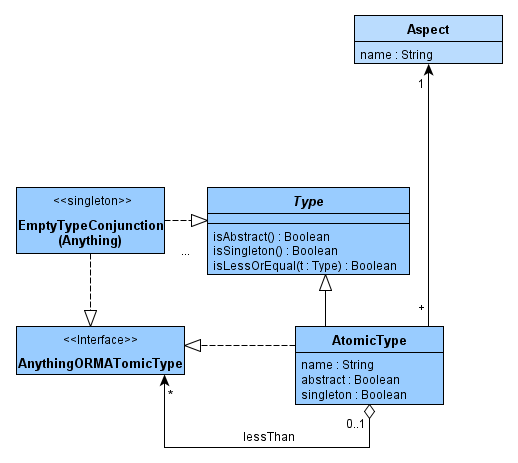
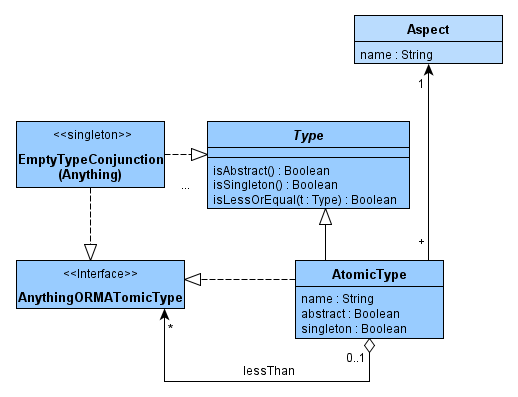
doku update observations
git-svn-id: file:///home/nik/repositories/svn/master@577 cf7a9c80-4257-4e8c-b9e2-f0888625b119

Changed region(s): [[0.0309, 0.3023, 0.8649, 0.9673], [0.0309, 0.6045, 0.556, 0.8463], [0.6795, 0.0302, 0.9884, 0.2116]]

diff --git a/public/doku/metaModel/trunk/content/sections/Metamodell_Observation.tex b/public/doku/metaModel/trunk/content/sections/Metamodell_Observation.tex
@@ -1,0 +1,50 @@
+\subsection{Observations}
+Im Gegensatz zum ursprünglichen Modell haben wir uns nach längerer Diskussion dazu entschlossen Observation auszulagern. 
+Das soll zum einen der Übersicht und Transparenz des Modells zu gute kommen und zum anderen, was viel wichtiger ist, 
+die aufwändige Handhabung von Singletons für Observation vermeiden. 
+Ursprünglich handelte es sich fachlich um eine Observation wenn ein Typ nur aus Singletons bestand. 
+Dabei stellten sich folgende Fragestellungen, welche nach unserer Ansicht, 
+die Verwendung von Observations in der ursprünglichen Variante unnötig verkompliziert haben:
+
+\todo[Patrick: Gruende]
+\img[width=\relWidth{1}]{observation/observation.png}{Ausschnitt Observations}{img_observations}
+
+Observations werden auf Modellebene durch die Klassen \emph{Enum} und \emph{ObservationType} repräsentiert. 
+Wie man daran bereits erkennen kann, werden Observations mithilfe von Enumerationen interpretiert. 
+Dass bedeutet dass jeder konkreten Observation ein Wert einer Enumeration zugewiesen wird. 
+Die Klasse \emph{Enum} typisiert dabei die Enumeration. 
+Ein Beispiel für einen Enum Typ ist „Blutgruppe“. Die Klasse ObservationType stellt auf Modellebene die 
+Typisierung einer Observation dar. Dabei haben wir festgelegt, dass jede Observation genau einer Enumeration 
+und genau einem Typen zugeordnet sein muss. Man kann sich an dieser Stelle nun fragen, warum nicht mehrere Typen 
+zugeordnet werden können. Der Grund dafür ist, dass wir dies bereits über komplexe Typen definieren können und somit 
+an dieser Stelle darauf verzichtet werden kann.
+
+
+Auf der Instanzebene werden Observations mit den Klassen \emph{EnumValue} und \emph{Observation} abgebildet. 
+Die Klasse \emph{EnumValue} spiegelt dabei einen konkreten Enumeration Wert (z. B. Blutgruppe A) wieder, 
+wobei die Zuordnung zur Enumeration über die theType Assoziation erfolgt. 
+Die Klasse Observation definiert eine konkrete Observation. 
+Sie ist typisiert in einem ObservationType und hat jeweils eine zu-Eins Assoziation zu einem konkreten Enumeration Wert 
+und einem konkreten Objekt.
+
+\textbf{Konsistenzbedingungen} \newline
+-	Enum Objekte dürfen nur gelöscht werden wenn weder EnumValue noch ObservationType Objekte diese referenzieren.
+-	ObservationType Objekte dürfen nur gelöscht werden, wenn es keine Ausprägungen auf der Instanzebene gibt (Observation).
+-	Der Name von EnumValue Objekte muss innerhalb des gleichen Typs (Enum) eindeutig sein. Somit soll verhindert werden, dass beispielsweise 2x der Wert „Blutgruppe A“ einer Enumeration „Blutgruppe“ zugewiesen werden kann.
+-	Für die Observation Objekte müssen folgende Bedingungen gelten:
+o	Für alle o vom Typ Observation gilt:
+o.theType.enumType = o.enumValue.theType
+o	Für alle o vom Typ Observation gilt:
+o.theObsObject.type <= o.theType.theType
+
+\textbf{Manager} \newline
+Für die Erzeugung, das Löschen und der Verwaltung von Observations wurden die folgenden Manager definiert:
+-	EnumerationManager:
+Erzeugen und löschen von Enumerations.
+-	ObsTypeManager:
+Erzeugen und löschen von Observation Types
+-	ObservationManager:
+Erzeugen und löschen von Observations.
+-	EnumValueManager:
+Erzeugen und löschen von Enumeration Werten
+

diff --git a/public/doku/metaModel/trunk/content/sections/Metamodell_Types.tex b/public/doku/metaModel/trunk/content/sections/Metamodell_Types.tex
@@ -6,7 +6,7 @@ Aspekte stellen gemäß ursprünglichen Modellierung eine Dimension dar, in dere
 Atomare Typen der Klasse \emph{AtomicType} werden genau einem Aspekt zugeordnet. Durch die \emph{lessThan}-Assoziation lässt sich aspektintern eine 
 partielle Ordnung \emph{isLessOrEqualThan} ableiten.  
 
-\img[width=\relWidth{0.5}]{type/Aspekte.png}{Umarrangierter Ausschnitt Aspekte}{img_aspekts}
+\img[width=\relWidth{0.75}]{type/Aspekte.png}{Umarrangierter Ausschnitt Aspekte}{img_aspekts}
 
 Das Interface \emph{AnythingORMATomicType} ist als Zieltyp der \emph{lessThan}-Assoziation ergänzt worden, 
 um die Möglichkeit zu schaffen einen atomaren Typen mit Obertyp so zu ändern, dass er anschließend keinen 
@@ -83,6 +83,11 @@ mitgelöscht. Die \emph{changeSingleton}-Operation verwaltet ebenfalls \emph{Sin
 \end{enumerate}
 
 \subsubsection{Komplexe Typen}
+
+Komplexe Typen bieten die Möglichkeit Und- und Oder-Typen zu bilden. Zyklenfreiheit wird hierbei dadurch gewährleistet, 
+dass \emph{containedTypes} und alle Spezialisierungen Teil einer Hierarchie sind. 
+
+\img[width=\relWidth{1}]{type/ComplexTypes.png}{Ergänzter Ausschnitt: Komplexe Typen}{img_complexTypes}
 
 
 

diff --git a/public/doku/metaModel/trunk/content/sections/Metamodell_ModelItem.tex b/public/doku/metaModel/trunk/content/sections/Metamodell_ModelItem.tex
@@ -2,7 +2,7 @@
 
 \term{ModelItem} ist als Abstraktion für alle Modellelemente konzeptioniert. 
 Zentrale Aufgabe dieser Klasse ist es, einen Abhängigkeitsgraphen über Modellelemente erstellen zu können und 
-das Löschen dieser zu vereinheitlichen. Der Abhängigkeitsgraph ist durch die Modellierung bedingt azyklisch.
+das Löschen dieser zu vereinheitlichen. Der Abhängigkeitsgraph ist, durch die Modellierung bedingt, azyklisch.
 Die in der Implementierung angewandte Pragmatik verbietet das Löschen von Modellelementen, von denen weitere Elemente 
 abhängig sind. Der Entwurf ermöglicht es auch nachträglich dieses Vorgehen mit geringem Aufwand durch ein kaskadierendes Löschen zu 
 ersetzen. 
@@ -29,4 +29,5 @@ Singleton-Objekt und löscht dies in \emph{prepareForDeletion()}.
 
 \end{description}
 \subsubsection{Weitere Ideen}
+
 \TODO[Kapitel schreiben]

diff --git a/public/doku/metaModel/trunk/content/sections/Metamodell.tex b/public/doku/metaModel/trunk/content/sections/Metamodell.tex
@@ -10,6 +10,11 @@
 \newpage
 \input{\content/sections/Metamodell_Types} % Inhalt einbinden
 
+
+% Kapitel
+\newpage
+\input{\content/sections/Metamodell_Observation} % Inhalt einbinden
+
 % Kapitel
 \newpage
 \input{\content/sections/Metamodell_Operation} % Inhalt einbinden
